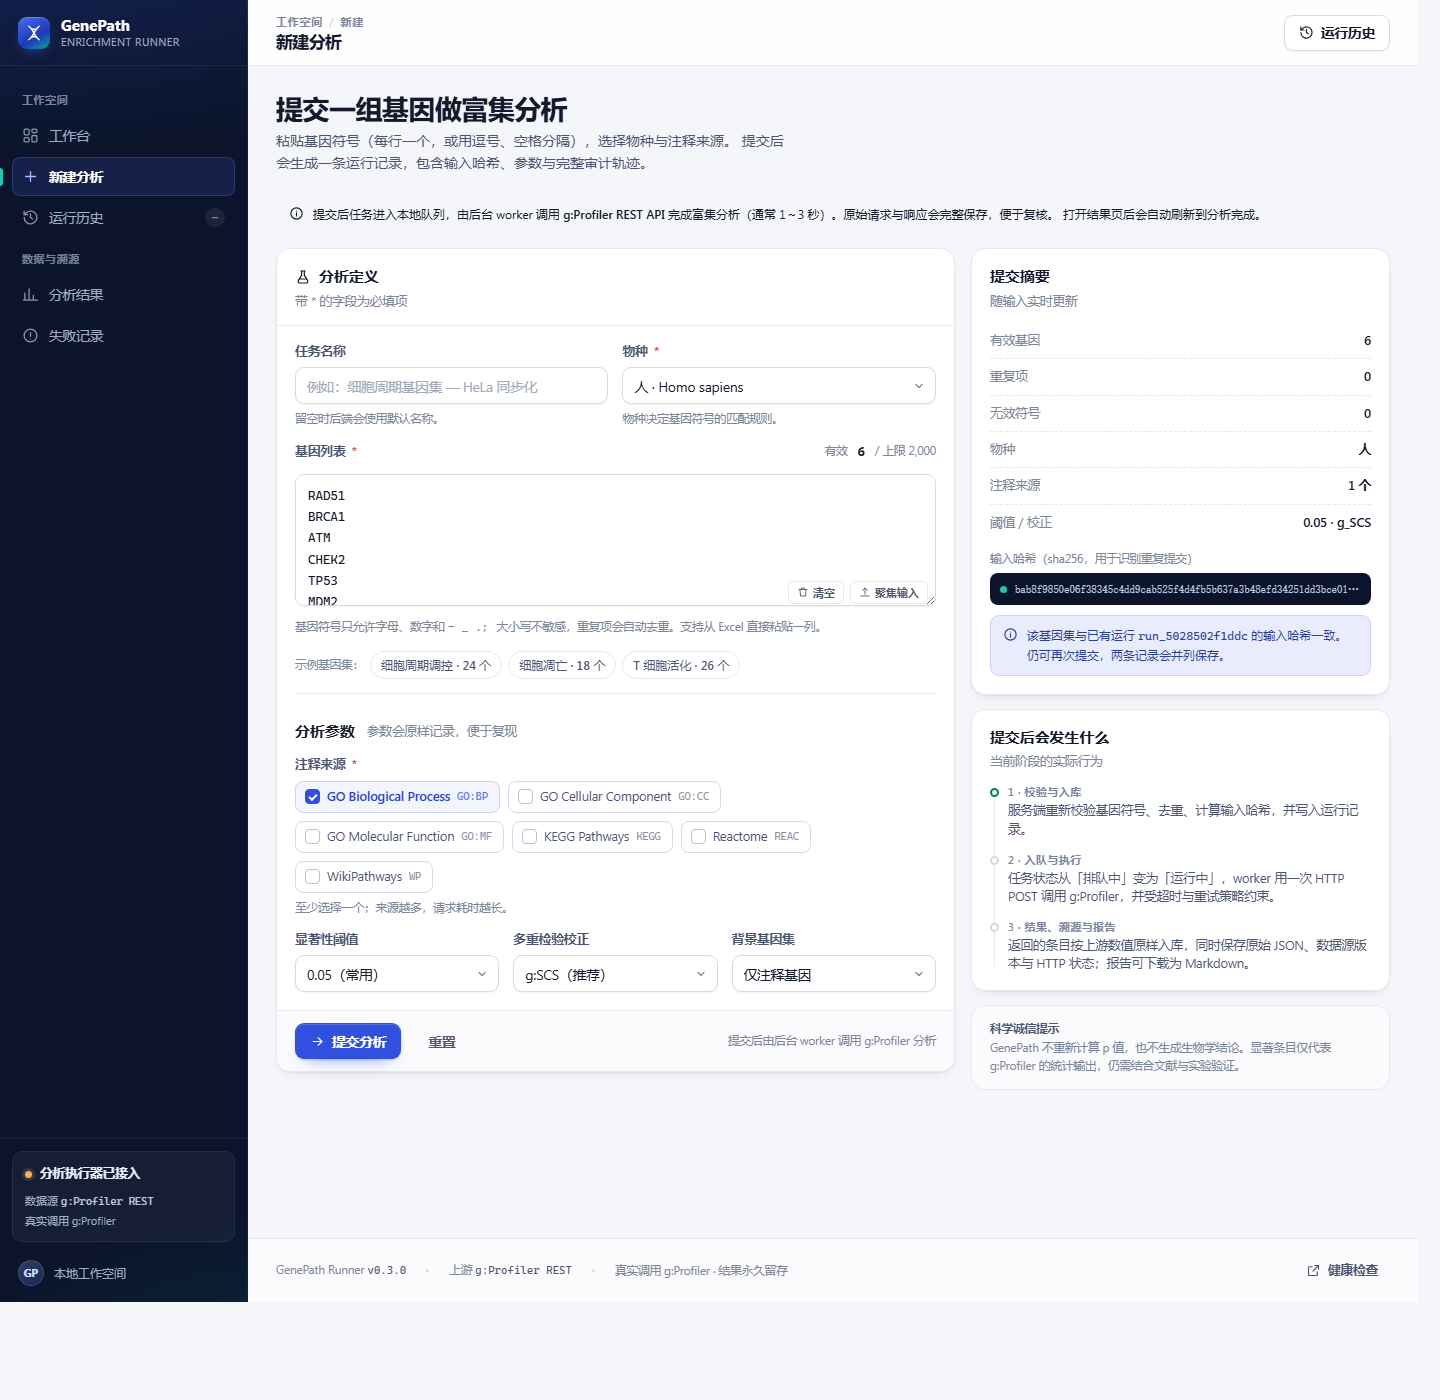
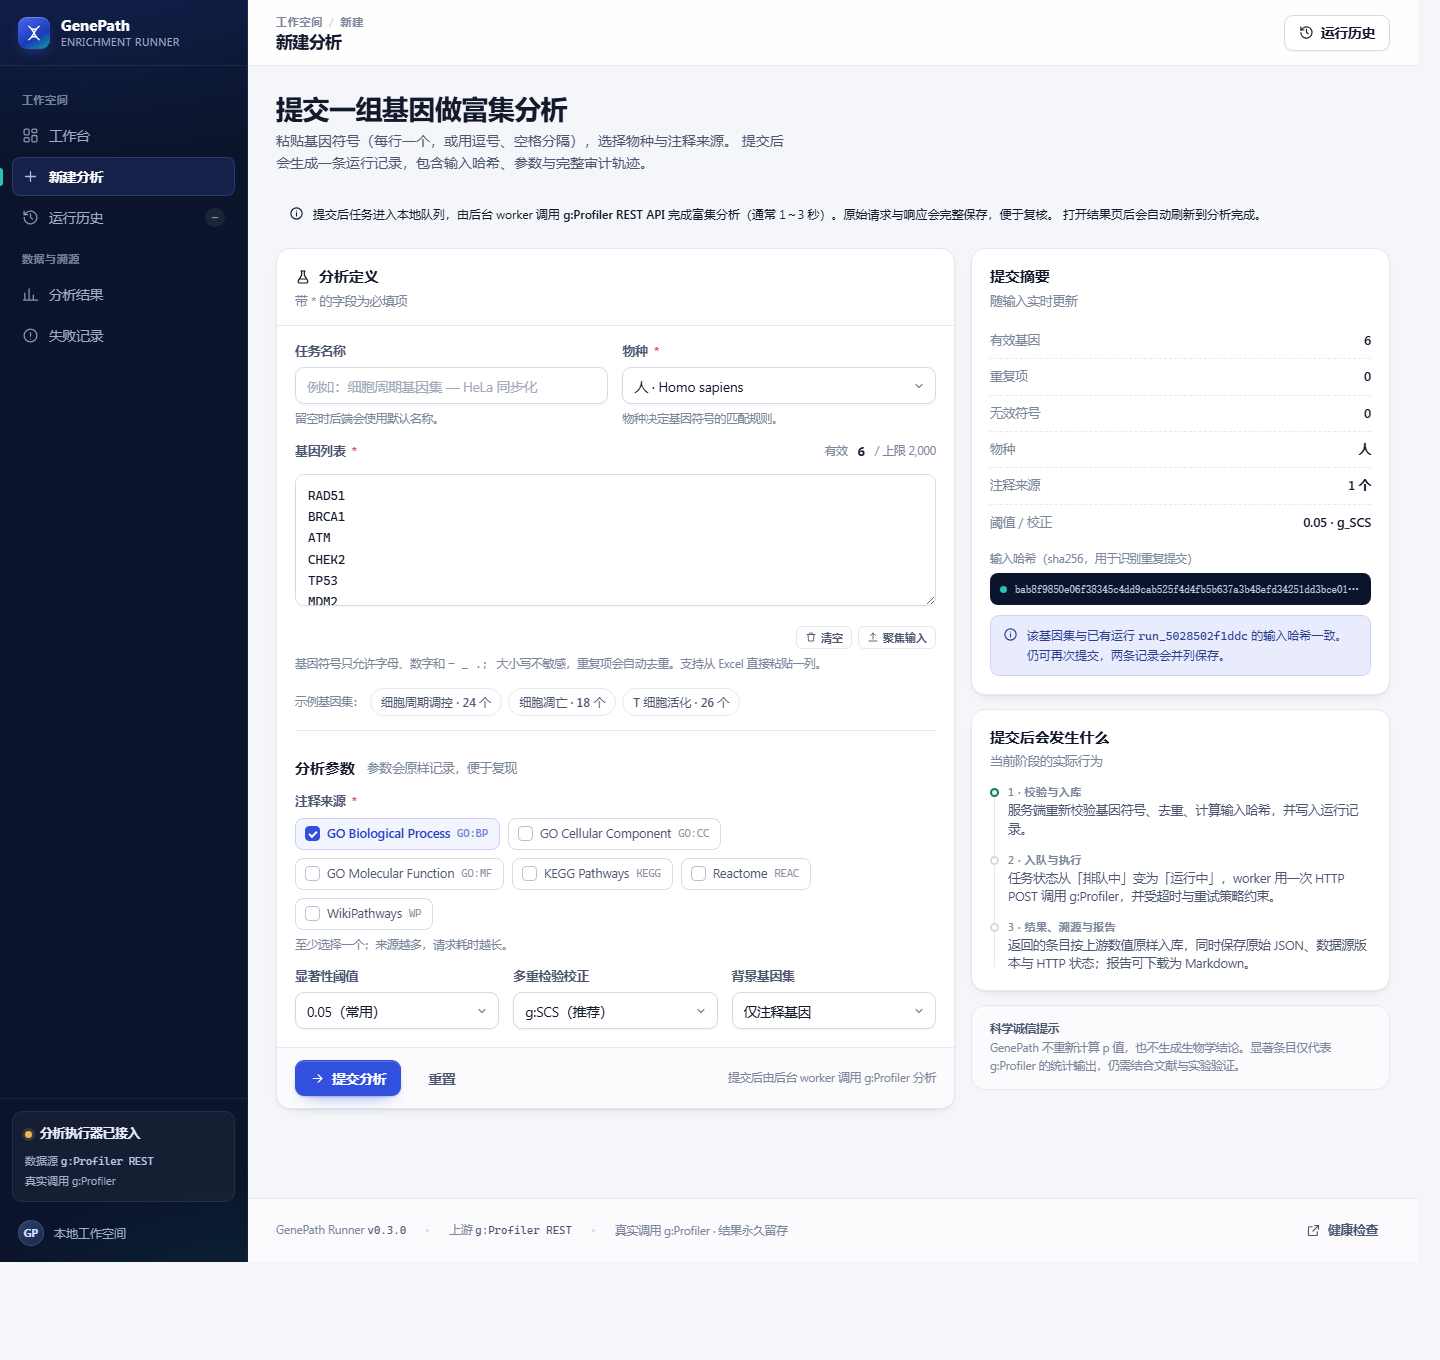
fix(ui): move gene input tools below the textarea so they never cover the last gene

diff --git a/web/static/new.html b/web/static/new.html
@@ -1,4 +1,4 @@
-<!doctype html>
+<!doctype html>
 <html lang="zh-CN">
   <head>
     <meta charset="utf-8" />
@@ -164,14 +164,15 @@
                     placeholder="TP53&#10;CDKN1A&#10;BAX&#10;MCM2&#10;… 每行一个基因符号"
                     aria-describedby="genesHint genesError"
                   ></textarea>
-                  <div class="textarea-tools">
-                    <button type="button" class="mini-btn" id="clearGenes">
-                      <i data-icon="trash" data-size="12"></i>清空
-                    </button>
-                    <button type="button" class="mini-btn" id="pasteFocus">
-                      <i data-icon="upload" data-size="12"></i>聚焦输入
-                    </button>
-                  </div>
+                </div>
+
+                <div class="textarea-tools">
+                  <button type="button" class="mini-btn" id="clearGenes">
+                    <i data-icon="trash" data-size="12"></i>清空
+                  </button>
+                  <button type="button" class="mini-btn" id="pasteFocus">
+                    <i data-icon="upload" data-size="12"></i>聚焦输入
+                  </button>
                 </div>
 
                 <div class="field__error" id="genesError"></div>

diff --git a/web/static/assets/css/pages.css b/web/static/assets/css/pages.css
@@ -1,4 +1,4 @@
-/* ==========================================================================
+/* ==========================================================================
    GenePath Runner — page-level composition
    ========================================================================== */
 
@@ -439,15 +439,14 @@
 }
 
 .textarea-wrap .textarea {
-  padding-bottom: 34px;
+  padding-bottom: 12px;
 }
 
 .textarea-tools {
-  position: absolute;
-  right: 8px;
-  bottom: 8px;
   display: flex;
+  justify-content: flex-end;
   gap: 6px;
+  margin-top: 8px;
 }
 
 .mini-btn {
